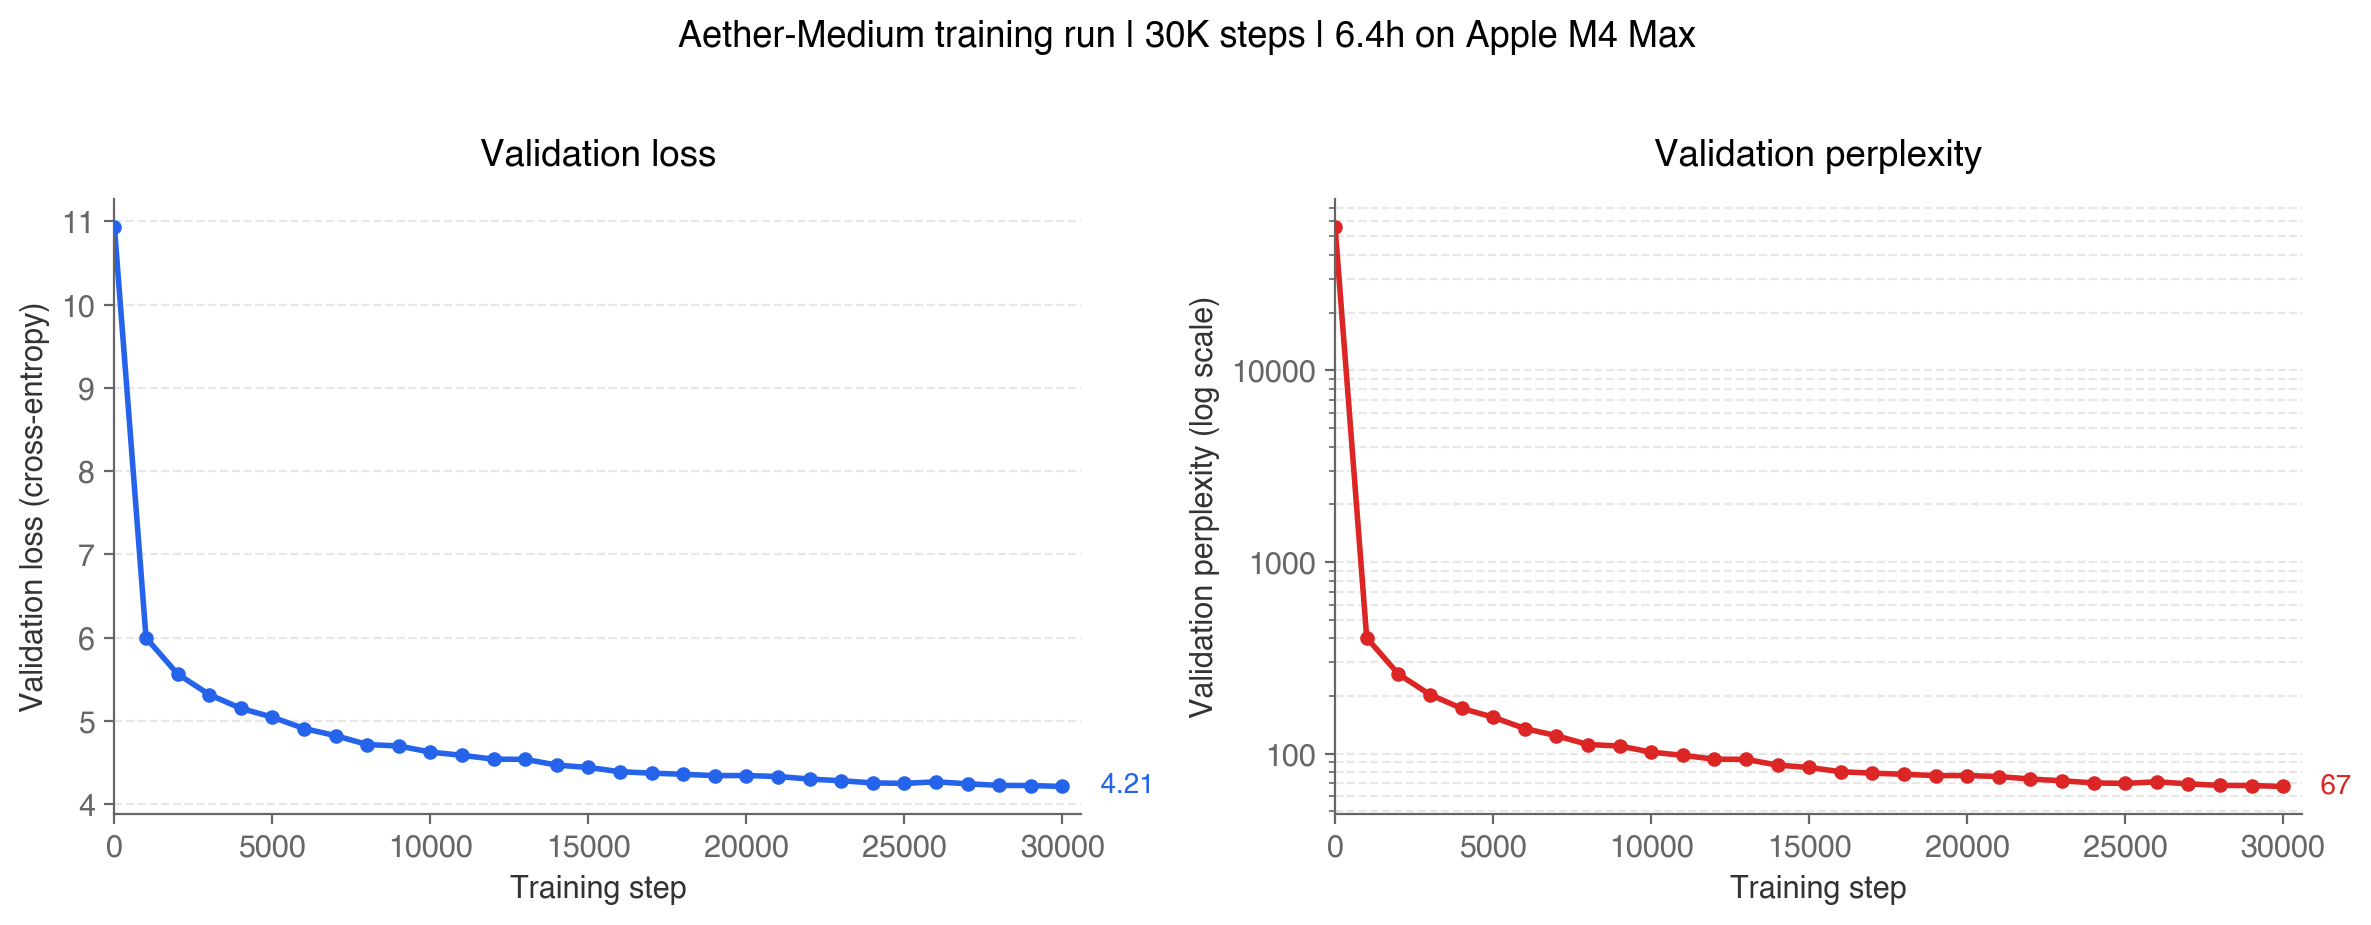
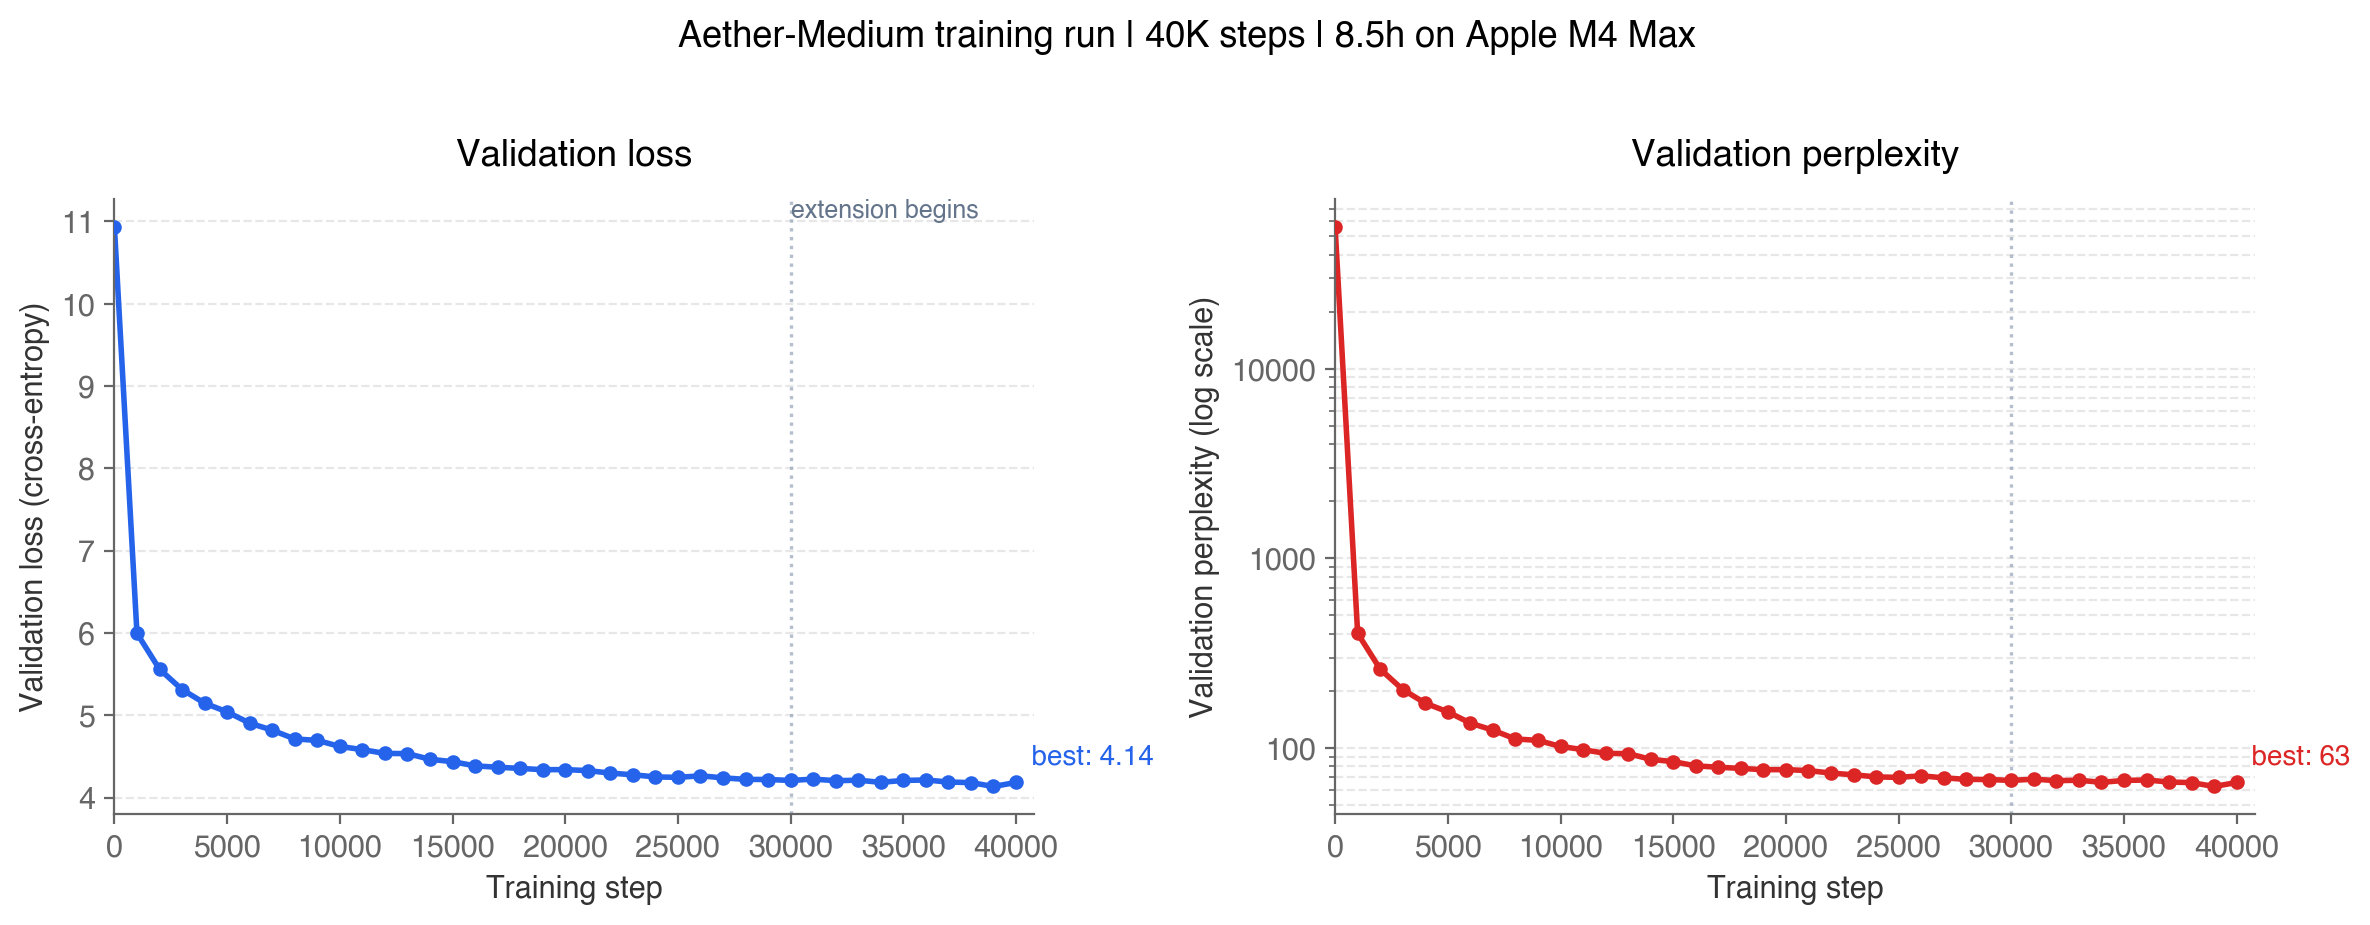
Trained the model for 10,000 more steps

diff --git a/evaluate/plot_loss.py b/evaluate/plot_loss.py
@@ -1,5 +1,9 @@
 """
-Parse training logs and produce a loss curve in loss_curve.png
+Parse training logs and produce a publication-quality loss curve.
+
+Reads both the original training log and the extended-training log,
+combines them, and produces:
+  - loss_curve.png: val loss + perplexity over the full 0-40K training
 """
 
 import re
@@ -7,28 +11,52 @@ import math
 import matplotlib.pyplot as plt
 import matplotlib.ticker as mticker
 
-LOG_PATH = "logs/medium_run.log"
+# Config
+LOG_PATHS = [
+    "logs/medium_run.log",           # original 30K steps
+    "logs/medium_run_extended.log",  # extension 30K-40K
+]
 OUTPUT_PATH = "loss_curve.png"
 
+# Match lines like: [step  5000] val_loss = 5.2756  lr = 2.96e-04  elapsed = 38.9m
 VAL_LINE = re.compile(
     r"\[step\s+(\d+)\]\s+val_loss\s*=\s*([\d.]+)\s+lr\s*=\s*([\d.e+-]+)\s+elapsed\s*=\s*([\d.]+)m"
 )
 
-steps, val_losses, elapsed = [], [], []
+# Parse the logs
+steps, val_losses = [], []
+seen_steps = set()  # avoid duplicating step 30000 if it's in both logs
 
-with open(LOG_PATH) as f:
-    for line in f:
-        m = VAL_LINE.search(line)
-        if m:
-            step, loss, lr, elap = m.groups()
-            steps.append(int(step))
-            val_losses.append(float(loss))
-            elapsed.append(float(elap))
+for log_path in LOG_PATHS:
+    try:
+        with open(log_path) as f:
+            for line in f:
+                m = VAL_LINE.search(line)
+                if m:
+                    step = int(m.group(1))
+                    loss = float(m.group(2))
+                    if step not in seen_steps:
+                        steps.append(step)
+                        val_losses.append(loss)
+                        seen_steps.add(step)
+    except FileNotFoundError:
+        print(f"Warning: {log_path} not found, skipping")
 
-print(f"Found {len(steps)} validation points")
-print(f"Final: step {steps[-1]}, val_loss {val_losses[-1]:.4f}, "
-      f"perplexity {math.exp(val_losses[-1]):.1f}")
+# Sort by step (in case logs aren't in order)
+sorted_pairs = sorted(zip(steps, val_losses))
+steps = [p[0] for p in sorted_pairs]
+val_losses = [p[1] for p in sorted_pairs]
 
+print(f"Found {len(steps)} validation points spanning steps {steps[0]} to {steps[-1]}")
+print(f"Final: step {steps[-1]}, val_loss {val_losses[-1]:.4f}")
+
+# Find the actual best (lowest) val loss
+best_idx = val_losses.index(min(val_losses))
+best_step = steps[best_idx]
+best_loss = val_losses[best_idx]
+print(f"Best:  step {best_step}, val_loss {best_loss:.4f}, perplexity {math.exp(best_loss):.1f}")
+
+# Plot
 plt.rcParams.update({
     "font.family": "sans-serif",
     "font.sans-serif": ["Helvetica", "Arial", "DejaVu Sans"],
@@ -52,18 +80,23 @@ ax_loss.set_title("Validation loss", fontweight="500", pad=12)
 ax_loss.grid(True, axis="y", alpha=0.3, linestyle="--")
 ax_loss.set_xlim(0, max(steps) * 1.02)
 
-final_step, final_loss = steps[-1], val_losses[-1]
+# Mark the boundary between original and extension runs
+ax_loss.axvline(x=30000, color="#94a3b8", linestyle=":", linewidth=1.2, alpha=0.7)
+ax_loss.text(30000, ax_loss.get_ylim()[1], "extension begins", 
+             fontsize=9, color="#64748b", ha="left", va="top")
+
+# Annotate the best point
 ax_loss.annotate(
-    f"  {final_loss:.2f}",
-    xy=(final_step, final_loss),
-    xytext=(8, 0),
+    f"  best: {best_loss:.2f}",
+    xy=(best_step, best_loss),
+    xytext=(8, 8),
     textcoords="offset points",
     fontsize=10,
     color="#2563eb",
     fontweight="500",
-    va="center",
 )
 
+# Right panel: perplexity (log-scale)
 perplexities = [math.exp(l) for l in val_losses]
 ax_ppl.plot(steps, perplexities, color="#dc2626", linewidth=2.0)
 ax_ppl.scatter(steps, perplexities, color="#dc2626", s=18, zorder=5)
@@ -75,21 +108,24 @@ ax_ppl.grid(True, axis="y", alpha=0.3, linestyle="--", which="both")
 ax_ppl.yaxis.set_major_formatter(mticker.ScalarFormatter())
 ax_ppl.set_xlim(0, max(steps) * 1.02)
 
-final_ppl = perplexities[-1]
+# Mark the boundary
+ax_ppl.axvline(x=30000, color="#94a3b8", linestyle=":", linewidth=1.2, alpha=0.7)
+
+# Annotate the best perplexity
+best_ppl = math.exp(best_loss)
 ax_ppl.annotate(
-    f"  {final_ppl:.0f}",
-    xy=(final_step, final_ppl),
-    xytext=(8, 0),
+    f"  best: {best_ppl:.0f}",
+    xy=(best_step, best_ppl),
+    xytext=(8, 8),
     textcoords="offset points",
     fontsize=10,
     color="#dc2626",
     fontweight="500",
-    va="center",
 )
 
-total_hours = elapsed[-1] / 60
+# Overall title
 fig.suptitle(
-    f"Aether-Medium training run | 30K steps | {total_hours:.1f}h on Apple M4 Max",
+    "Aether-Medium training run | 40K steps | 8.5h on Apple M4 Max",
     fontsize=13,
     fontweight="500",
     y=1.02,

diff --git a/training/train.py b/training/train.py
@@ -5,7 +5,7 @@ import time
 sys.path.append(os.path.dirname(os.path.dirname(os.path.abspath(__file__))))
 
 import torch
-from model.config import andromeda_medium
+from model.config import aether_medium
 from model.transformer import GPT
 from data.dataloader import get_batch
 from training.optimizer import configure_optimizer, get_lr
@@ -16,7 +16,7 @@ from training.utilities import save_checkpoint, Timer
 MAX_LR       = 3e-4
 MIN_LR       = 3e-5
 WARMUP_STEPS = 600
-MAX_STEPS    = 30000
+MAX_STEPS    = 40000
 WEIGHT_DECAY = 0.1
 GRAD_CLIP    = 1.0
 
@@ -61,7 +61,7 @@ def main():
         torch.cuda.manual_seed(3407)
 
     # Build the model
-    config = andromeda_medium()
+    config = aether_medium()
     assert config.block_size == BLOCK_SIZE, \
         "BLOCK_SIZE must match config.block_size"
 
@@ -76,15 +76,32 @@ def main():
         weight_decay=WEIGHT_DECAY,
     )
 
-    # Track the best model for checkpoint selection
+    # Resume from checkpoint if available
+    resume_path = os.path.join(CKPT_DIR, "best.pt")
+    start_step = 0
     best_val_loss = float("inf")
+
+    if os.path.exists(resume_path):
+        print(f"Resuming from {resume_path}...")
+        ckpt = torch.load(resume_path, map_location=device, weights_only=False)
+        model.load_state_dict(ckpt["model"])
+        optimizer.load_state_dict(ckpt["optimizer"])
+        start_step = ckpt["step"] + 1
+        best_val_loss = ckpt["val_loss"]
+        print(f"Resumed at step {start_step}, val_loss {best_val_loss:.4f}")
+    else:
+        print("No checkpoint found, starting from scratch")
 
     model.train()
     t_start = time.time()
 
-    for step in range(MAX_STEPS + 1):
+    for step in range(start_step, MAX_STEPS + 1):
         # Update learning rate for this step
-        lr = get_lr(step, WARMUP_STEPS, MAX_STEPS, MAX_LR, MIN_LR)
+        if step <= 30000:
+            lr = get_lr(step, WARMUP_STEPS, 30000, MAX_LR, MIN_LR)
+        else:
+            # Fresh cosine decay from 5e-5 down to 1e-5 over the extension steps
+            lr = get_lr(step - 30000, 50, 10000, 5e-5, 1e-5)
         for pg in optimizer.param_groups:
             pg["lr"] = lr
 

diff --git a/model/config.py b/model/config.py
@@ -18,7 +18,7 @@ class GPTConfig:
     def head_dim(self) -> int:
         return self.n_embd // self.n_head # Dimension of each attention head
   
-def andromeda_small() -> GPTConfig:
+def aether_small() -> GPTConfig:
     # Around 15M parameters
     return GPTConfig(
         block_size=256,
@@ -27,7 +27,7 @@ def andromeda_small() -> GPTConfig:
         n_embd=384,
         dropout=0.1,
     )
-def andromeda_medium() -> GPTConfig:
+def aether_medium() -> GPTConfig:
     # Around 50M parameters
     return GPTConfig(
         block_size=512,

diff --git a/README.md b/README.md
@@ -28,7 +28,7 @@ This project is the production-scale counterpart to [Forge](https://github.com/S
 
 ![Validation loss and perplexity over training](loss_curve.png)
 
-**Final validation loss: 4.21** (perplexity 67) after 6 hours 21 minutes of training.
+**Final validation loss: 4.14** (perplexity 63) after 8 hours 30 minutes of training.
 
 | Step   | Val loss | Perplexity |
 |--------|----------|------------|
@@ -38,66 +38,62 @@ This project is the production-scale counterpart to [Forge](https://github.com/S
 | 15,000 | 4.49     | 89         |
 | 20,000 | 4.34     | 77         |
 | 25,000 | 4.25     | 70         |
-| 30,000 | **4.21** | **67**     |
+| 30,000 | 4.21     | 67         |
+| 40,000 | **4.14** | **63**     |
 
-For reference: a fully-trained GPT-2 Small (124M params, 40B tokens of training data) reaches perplexity ~17-24 on OpenWebText. Aether reaches a perplexity of 67 with half the parameters and ~1/160th of the training data.
+For reference: a fully-trained GPT-2 Small (124M params, 40B tokens of training data) reaches perplexity ~17-24 on OpenWebText. Aether reaches a perplexity of 63 with half the parameters and ~1/160th of the training data.
 
 ### Training throughput
 
-Sustained ~11,150 tokens/sec on an M4 Max throughout the 6-hour run. No divergence, no crashes, no thermal emergencies.
+Sustained ~11,150 tokens/sec on an M4 Max throughout the 8.5 hour run. No divergence, no crashes, no thermal emergencies.
 
 ## Sample outputs
 
-All outputs below are produced with `temperature=1.2, top_k=200, top_p=0.9, repetition_penalty=1.3`, unedited.
+All outputs below are produced with `temperature=1.0, top_k=40, top_p=0.9, repetition_penalty=1.3`, unedited.
 
 ### News prompt
 
 > **Prompt**: *"US senate vote"*
 >
-> **Output**: "US senate vote on Tuesday to make that happen without a debate.
+> **Output**: US senate vote on Sunday.
 
-> Among these meetings is the House of Representatives’ majority leader, MOSA Director and Senate Majority Leader Mitch McConnell for president (Vt.) will run on special prosecutor general counsel Andrew Cuomo, before Republicans join in on December 1.
+>"We must work to make sure we don't support the House of Representatives and the Senate Foreign Relations Committee,” he said. “It is essential that we get people interested in protecting us from such a massive issue."
 
-> It's clear in the fact that they're going to face a series of challenges and ask what happens under oath or their decision-making? The first major problem is whether, during a debate last year, we saw what happened again that Democrats had set up an anti-imbridge bill, known as Raunteo, introduced to protect civil liberties protections of the city's African Americans while having direct control over white privilege in office and allowed him to challenge the matter.
+>The Washington Post reported on Monday that Trump, under pressure from Congress, and the U.S. Senate, have been able to pass on his own rules of government. The New York Times cited Trump as saying the executive branch has no jurisdiction over whether or not Congress can act or enforce its constitution, including federal immigration law and laws in place for immigrants who are illegally living in countries with more than 10 million foreign nationals.
 
-> The issues raised by many senators, especially congressional leaders, seem very likely and significantly below how the Senate goes about it (although some Democrats) that would oppose the GOP’s right to decide for President Barack Obama
-"*
+>The Trump administration has repeatedly denied any wrongdoing in the campaign of President Obama’s government — arguing that it is "not a criminal activity" by a country whose political or business interests have been "in the hands of the people," according to an e-mail from The Times, which was sent back*
 
 ### Corporate PR prompt
 
 > **Prompt**: *"A spokesperson for the company said"*
 >
-> **Output**: "A spokesperson for the company said on Tuesday that three schools have "a clear concerns about a candidate coming through this matter."
+> **Output**: A spokesperson for the company said on Sunday that it was not investigating a report by The Associated Press.
 
-> “We take any available information as such and we hope to complete it for publication. This change will ensure all students can provide a benefit while continuing with our school year-end experience to evaluate that decision,” Yutay says. The department doesn't want anyone to attend and ask anything because they aren’t ready to begin the first major program at M.A.N., or he plans to leave his office on March 1 after the election.
+>It said an inquiry had been made into possible criminal activity in Russia and said there was no evidence to support such a case.
 
-> His calls for his wife to submit a series of meetings to all school officials, including Kaley Sisler & Sam Smith in both India and England; said she will provide "a unique message". Mr Smith said the four schools have been receiving good interest, when school authorities cannot move ahead with student support.
+>Koschov, who is currently at the firm’s business partner, did not respond to an email seeking comment on his claims or any other details of the matter. He also declined to return calls from the authorities and told The Associated Press that there were no known reports about Russia involvement in this matter, however.
 
-> Kaley Sisler has come up in 2013 and recently invited members for a major committee
+>A spokesman for the Russian state-owned company said it had been working with a group of law enforcement officers.
+
+>Russian President Vladimir Putin called the investigation “not going as far back”, saying the agency has “dressed some of that and will continue to review” its reports and is investigating any criminal activity in Russia.
+
+Koschov’s company said it would “underground all our investigations
+
 
 ### Narrative prompt
 
 > **Prompt**: *"Once upon a time"*
 >
-> **Output**: *"I could easily see how the weather was going on in New York. The rain, too, had been about two-and-a-half miles south of New York City. That meant that people would be walking out to the mountains to get a place off the ground and all that was there were huge roads."*
+> **Output**: *Once upon a time, I could easily go back to a game where the only way you can do it is find a single level match and I had to try it.
+
+>So what are your main goal of the match?
+
+>I really love that game. It will be fun if I’m playing around, just like they did on some kind of deck where they were both good at that point. In fact, it is a lot more than a win or two because there is an absolute risk of it being a one-off match. If you think the whole set would come down to a game or not, then you can just go up and do something about it and not win the game.
+
+>If I go back to a game where I will always start with that tournament, I want to be able to play at a tournament level but if you do it well, you’ll only get one more shot when you don’t see them in the opening seconds, so be
+*
 
 First-person narrative with spatial reasoning (cardinal directions, distance measurements). OpenWebText has relatively little fairy-tale content, so the model defaulted to the most common first-person genre in its training data.
-
-## Failure modes
-
-Being honest about where the model fails is as important as showing where it succeeds.
-
-### Semantic inconsistency
-The model produces grammatically correct sentences but with contradictory or nonsensical content. This is the expected failure mode of an undertrained language model that has learned patterns and structures without learning what they refer to.
-
-### Topic drift over long generations
-Samples that start on one topic often migrate to another after 50-100 tokens. This reflects the 512-token context window and limited training data; the model has learned what different genres look like locally but hasn't seen enough text to learn *when* to switch.
-
-### Fragile factual retrieval
-Simple factual questions fail unpredictably. Prompted with "The capital of France is", the model produces generic news-about-France output without ever confidently emitting "Paris". World knowledge requires orders of magnitude more training data than this model received.
-
-### Repetition without safeguards
-Without the repetition penalty, low-temperature generation collapses into loops (e.g. "the crisis has been a major problem ..." × 20). The repetition penalty applied to the last 64 tokens eliminates this almost entirely.
 
 ## Architecture
 
@@ -139,7 +135,7 @@ Logits (B, T, 50,257)
 | Peak learning rate     | 3e-4              |
 | Min learning rate      | 3e-5              |
 | Warmup steps           | 600               |
-| Total steps            | 30,000            |
+| Total steps            | 40,000            |
 | LR schedule            | Linear warmup + cosine decay |
 | Gradient clipping      | 1.0 (L2 norm)     |
 | Batch size             | 16 sequences      |
